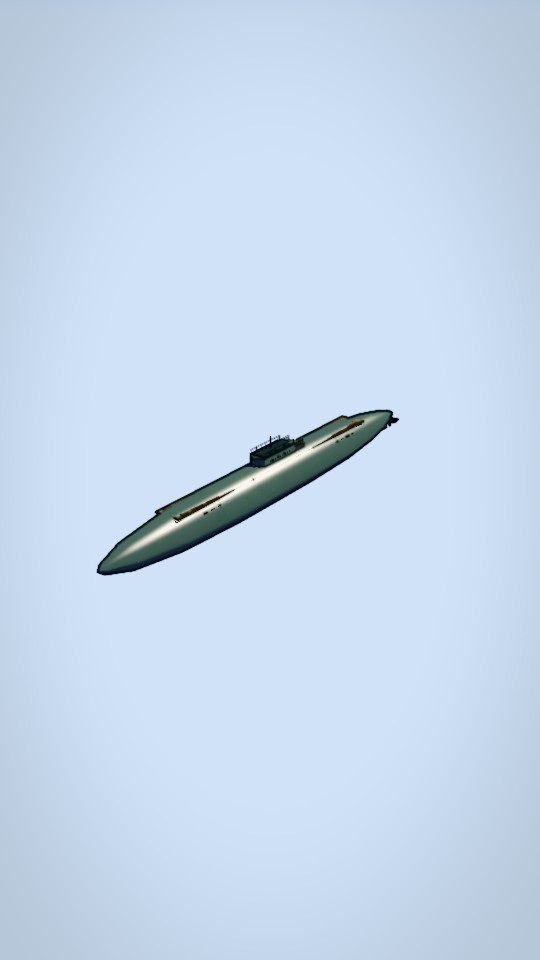
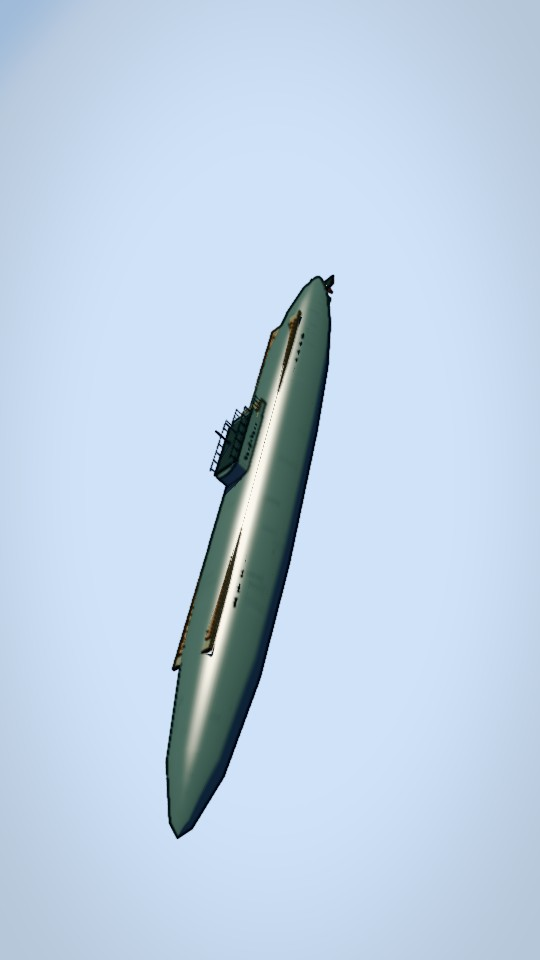
Improve submarine review staging and record art direction

Changed region(s): [[0.1778, 0.2812, 0.7407, 0.875]]

diff --git a/src/videos/submarine-toilet/Preview.tsx b/src/videos/submarine-toilet/Preview.tsx
@@ -14,12 +14,12 @@ import {Ground} from '../../pipeline/ground';
 import {CardStage, person, blob, Stage, CamInfo} from '../../pipeline/cast';
 import {soldier} from '../../pipeline/toon';
 import {createCompartment,createSubmarine,createToilet,createSection} from '../../../videos/submarine-toilet/assets/submarine.js';
-const shots=[{pos:[78,60,108],look:[0,3,0],fov:48},{pos:[2.1,2.0,4.4],look:[0,.8,-.2],fov:48},{pos:[6.5,5.0,10.0],look:[0,2,-.2],fov:48},{pos:[3.2,2.6,7.0],look:[0,1,-.4],fov:48}] as const;
+const shots=[{pos:[48,36,66],look:[0,3,0],fov:48},{pos:[2.1,2.0,4.4],look:[0,.8,-.2],fov:48},{pos:[6.5,5.0,10.0],look:[0,2,-.2],fov:48},{pos:[3.2,2.6,7.0],look:[0,1,-.4],fov:48}] as const;
 function Inner(){const f=useCurrentFrame();const {camera,scene}=useThree();const cam=camera as THREE.PerspectiveCamera;
  const world=useMemo(()=>{const root=new THREE.Group(),sky=new SkyRig(root,{clouds:0});const ship=finish(createSubmarine()),room=finish(createCompartment()),toilet=finish(createToilet()),section=finish(createSection());root.add(ship,room,toilet,section);const ground=new Ground();const floor=room.getObjectByName('floor');if(floor)ground.add(floor);const cards=new CardStage(root,ground);return {root,sky,ship,room,toilet,section,cards}},[]);
  const fx=useMemo(()=>({ink:new InkPass(scene,cam),lens:new LensBlur({maxCoC:24,nearScale:1.2}),bloom:new BloomEffect({blendFunction:BlendFunction.ADD,intensity:.5,luminanceThreshold:1,luminanceSmoothing:.2,mipmapBlur:true,levels:6,radius:.6}),tone:new ToneMappingEffect({mode:ToneMappingMode.NEUTRAL}),grade:new GradeEffect(GRADES.day,GRADE_STRENGTH.day)}),[scene,cam]);
- const i=Math.min(3,Math.floor(f/100)),s=shots[i];cam.position.set(s.pos[0],s.pos[1],s.pos[2]);cam.lookAt(s.look[0],s.look[1],s.look[2]);cam.fov=s.fov;cam.updateProjectionMatrix();cam.updateMatrixWorld();cam.layers.enable(NOINK);
- const focus=new THREE.Vector3(...s.look),sun=SkyRig.sunFrom(focus.x-cam.position.x,focus.z-cam.position.z,62,44);world.sky.update(cam,scene,'day',sun,focus,{fogNear:200,fogFar:1000,shadowR:i===0?60:8});
+ const i=Math.min(3,Math.floor(f/100)),s=shots[i];cam.position.set(s.pos[0],s.pos[1],s.pos[2]);cam.lookAt(s.look[0],s.look[1],s.look[2]);if(i===0) cam.rotateZ(-0.85);cam.fov=s.fov;cam.updateProjectionMatrix();cam.updateMatrixWorld();cam.layers.enable(NOINK);
+ const focus=new THREE.Vector3(...s.look),sun=i===0?SkyRig.sunFrom(focus.x-cam.position.x,focus.z-cam.position.z,62,44):new THREE.Vector3(1,2,3).normalize();world.sky.update(cam,scene,'day',sun,focus,{fogNear:200,fogFar:1000,shadowR:i===0?60:8});
  world.ship.visible=i===0;world.room.visible=i===3;world.section.visible=i===2;world.toilet.visible=i===1;world.root.updateMatrixWorld(true);
  const right=new THREE.Vector3().setFromMatrixColumn(cam.matrixWorld,0),ci:CamInfo={pos:cam.position,right,sun,light:'day'},st:Stage={places:[],fx:[]};
  if(i===3){st.places.push(person(ci,1,soldier(0),'crew',-.55,0,.3,{mode:'stand',expr:'worried'},1,{name:'crew',glow:'subtle'}));blob(ci,st,-.55,.3)}

diff --git a/videos/submarine-toilet/assets/submarine.js b/videos/submarine-toilet/assets/submarine.js
@@ -28,7 +28,9 @@ export function createCompartment(){let g=new T.Group();g.name='compartment';
  let toilet=createToilet();toilet.position.set(.35,0,-.55);g.add(toilet);
  for(let i=0;i<3;i++){let y=1.35+i*.29;pipe(back,M.brass,[[.7,y,-1.18],[1.0,y,-1.14],[1.28,y,-1.14]],.025);wheel(back,1.05,y,-1.02,.08)}
  cylinder(back,M.edge,.1,2.05,-1.14,.2,.08,'z');cylinder(back,M.ivory,.1,2.05,-1.08,.16,.03,'z');let needle=box(back,M.red,.1,2.08,-1.05,.015,.12,.02);needle.rotation.z=-.7;
- g.userData={units:'m',pivot:'floor centre',waterAnchor:[0,.08,0]};return g}
+ // A hideable water surface gives animation a clean attachment point; hidden for dry previews.
+ const water=box(g,mat('water','#4bacc0'),0,.1,0,3.05,.035,2.55);water.name='water-surface';water.visible=false;
+ g.userData={units:'m',pivot:'floor centre',waterAnchor:[0,.1,0]};return g}
 export function createSubmarine(){let g=new T.Group();g.name='type-viic-inspired-exterior';
  // Long turned pressure hull, fine ends and raised free-flooding upper casing.
  const pts=[[-33,0],[-32,.55],[-29,1.45],[-24,2.3],[-17,2.9],[-7,3.15],[9,3.15],[20,2.8],[28,1.9],[32,.75],[33,0]].map(([z,r])=>new T.Vector2(r,z));
@@ -54,7 +56,7 @@ export function createSection(){
  const section=new T.Group();section.name='illustrative-section';
  const room=createCompartment();room.position.y=1;section.add(room);
  // A ring at each end makes the pressure-hull cross section legible with the near wall removed.
- for(const z of [-1.42,1.42]){const rib=mesh(new T.TorusGeometry(2.05,.08,10,48),M.edge,section,0,2.05,z);rib.name='pressure-hull-rib'}
+ for(const z of [-1.42]){const rib=mesh(new T.TorusGeometry(2.05,.08,10,48),M.edge,section,0,2.05,z);rib.name='pressure-hull-rib'}
  box(section,M.lower,0,.07,0,3.3,.14,2.8);
  for(let x of [-1.05,-.35,.35,1.05]) for(let z of [-.75,0,.75]){
   const cell=box(section,M.dark,x,.48,z,.56,.74,.6);cell.name='illustrative-battery';

diff --git a/videos/submarine-toilet/ASSET-MANIFEST.md b/videos/submarine-toilet/ASSET-MANIFEST.md
@@ -1,6 +1,8 @@
 # Asset manifest — work in progress, not approved
 
-All assets are original procedural Three.js code in `assets/submarine.js`, under the repository license. Units are metres, Y up. These are **not production quality** and are not historically verified. Materials are named flat standard materials, converted with the existing `toonify`; bespoke painted textures have not been created. Preliminary attachment geometry was not used.
+**Owner direction (2026-11-17):** historical fidelity of the assets is not required. Treat the hull, plumbing, and section as stylized interpretations. The remaining blockers concern visual quality, animation affordances and QA; unverified geometry is not a blocker. Any factual claims in a future script still require review.
+
+All assets are original procedural Three.js code in `assets/submarine.js`, under the repository license. Units are metres, Y up. These are **not production quality** and are not historically verified. Materials are named standard materials; the review renderer applies the original procedural metal finish in `materials.ts` and the shared wood treatment. Preliminary attachment geometry was not used.
 
 | ID | Function / path | Scale and pivot | Review still | Status / limitations |
 |---|---|---|---|---|
@@ -12,7 +14,7 @@ Valve wheels and propellers are named groups but animation pivots and connection
 
 ## References and uncertainty
 
-The proposed source https://uboat.net/types/viic.htm could not be retrieved (network proxy returned HTTP 403). No historical dimensions, hull features, or toilet configuration have been verified for this model. Research primary or reputable museum/technical references for the Type VIIC/41 U-1206 exterior and the specific high-pressure system before building a factual visual. Confirm licensing and cite consulted material, not merely suggested URLs. The cause and sequence remain unverified. Do not promote the geometry or script to approved on this evidence.
+The visual models are stylized, as the owner permits. References below provide context only; the plumbing and mechanism are not evidence for a factual account. The cause and sequence remain unverified for any future script.
 
 ## Reference and iteration update
 
@@ -23,3 +25,7 @@ The proposed source https://uboat.net/types/viic.htm could not be retrieved (net
 `createSection()` now offers a schematic section, with illustrative battery cells below an accessible compartment; it is not a verified longitudinal U-1206 cutaway. `src/videos/submarine-toilet/materials.ts` applies an original deterministic painted-metal texture in the preview renderer, and the wooden deck uses the shared toon material treatment. The unconverted asset uses named standard materials; use `finish()` to apply the same finish. The updated exterior has schematic saddle tanks, deck, vents and wintergarten. All assets remain **blocked**: the exterior is still too small in frame and too schematic, the ringed section is sparse and visually confusing, the interior remains dark, and the toilet arrangement and operating sequence are unverified.
 
 `node scripts/audit-submarine.mjs` checks finite position/normal attributes and bounding boxes only: exterior 8,664, toilet 5,232, compartment 12,800, section 16,796 triangles. It does not establish normals orientation, closed surfaces, contact, collisions, valid pivots, or visual quality.
+
+## Latest preview pass
+
+The exterior camera is rolled and closer, interior lighting is brighter, the front section ring was removed, and the room has a hidden `water-surface` mesh. These are review improvements, not production approval. A generic soldier remains a scale proxy. Updated stills were rendered through the real pipeline and visually inspected. The room remains sparse and the exterior lacks a convincing hull silhouette and fittings; toilet interaction, flowing water, and articulated controls remain untested.

diff --git a/videos/submarine-toilet/CLAUDE-PROMPT.md b/videos/submarine-toilet/CLAUDE-PROMPT.md
@@ -1,3 +1,3 @@
 # Claude continuation — blocked
 
-Check out the exact Codex branch and commit named in the handoff. Read AGENTS.md, PRODUCTION-PIPELINE.md, SKILL.md, STORY.md, ASSET-MANIFEST.md and CODEX-HANDOFF.md. This branch contains only an unapproved preliminary asset experiment and diagnostic renders; do not use it as production-ready art or depict its speculative plumbing as fact. Finish reference research, rebuild and verify assets and actual in-engine stills, and stop for owner visual approval. SCRIPT.md and SHOTLIST.md are missing and the script is draft: do not start animation or full production until the owner approves a verified script and shot list. Do not modify Claude's ongoing Niagara work or merge branches without owner approval.
+Check out the exact Codex branch and commit named in the handoff. Read AGENTS.md, PRODUCTION-PIPELINE.md, SKILL.md, STORY.md, ASSET-MANIFEST.md and CODEX-HANDOFF.md. This branch contains only an unapproved preliminary asset experiment and diagnostic renders; do not use it as production-ready art or present its stylized plumbing as historical fact. Owner permits stylized rather than historically accurate assets; finish and verify the assets and actual in-engine stills, and stop for owner visual approval. SCRIPT.md and SHOTLIST.md are missing and the script is draft: do not start animation or full production until the owner approves a verified script and shot list. Do not modify Claude's ongoing Niagara work or merge branches without owner approval.

diff --git a/videos/submarine-toilet/CODEX-HANDOFF.md b/videos/submarine-toilet/CODEX-HANDOFF.md
@@ -11,3 +11,7 @@ Network reference request to uboat.net returned HTTP 403. Obtain accessible sour
 ## Subsequent iteration
 
 Accessible references were found and recorded in the manifest. An original generated metal finish, simplified deck and casing detail, and an illustrative section have been added; all four stills were rerendered and inspected with the same command. `npx tsc --noEmit` and `node scripts/audit-submarine.mjs` passed; the latter checks only finite attributes and bounds, not complete geometry quality. The new section's foreground rings obscure the set, and neither its staging nor the exterior meets the requested quality bar. The toilet remains speculative. These are still work-in-progress; do not commence Claude animation from this package. Once production assets and verified approved story/shot list exist, use CLAUDE-PROMPT.md and the staged preview/approval gates there.
+
+## Owner direction, latest
+
+The owner explicitly waived historical accuracy for the visual assets. Do not block art work on verifying the exact historical hull or plumbing. Maintain a clear distinction between stylized visual mechanism and factual claims in a future script. The owner has not approved the final assets, script, or shot list. Latest stills have brighter interior lighting, a larger exterior, and an unobstructed schematic section; they remain insufficiently detailed for production. `water-surface` is a hidden static mesh, not a finished effect.
